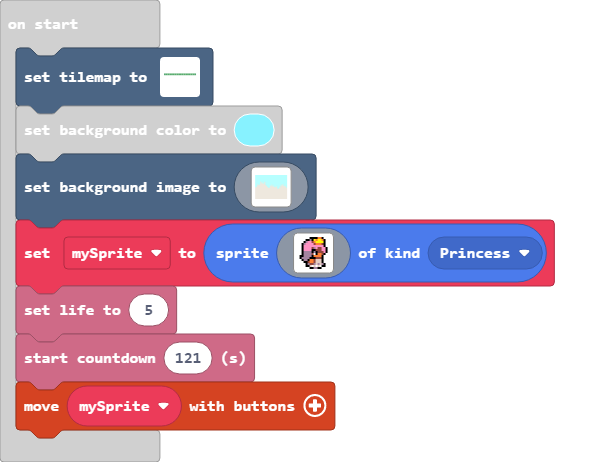
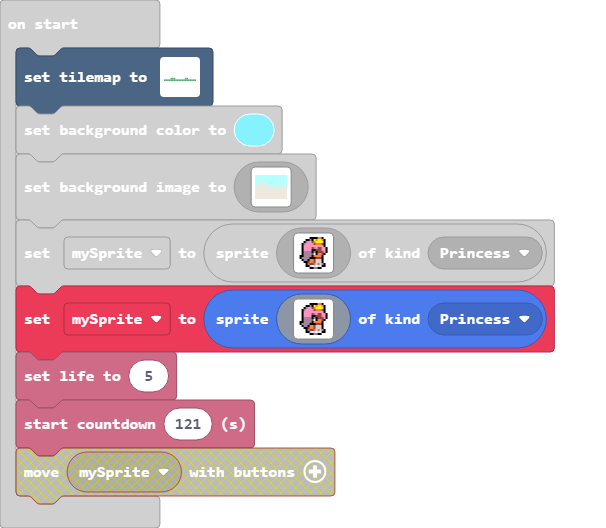
Update pxt.json, main.blocks, main.ts

diff --git a/main.ts b/main.ts
@@ -1,26 +1,13 @@
 namespace SpriteKind {
     export const Princess = SpriteKind.create()
 }
-tiles.setTilemap(tiles.createTilemap(hex`12001200000000000000000000000000000000000000000000000000000000000000000000000000000000000000000000000000000000000000000000000000000000000000000000000000000000000000000000000000000000000000000000000000000000000000000000000000000000000000000000000000000000000000030101010101010101010101010101010102000000000000000000000000000000000000000000000000000000000000000000000000000000000000000000000000000000000000000000000000000000000000000000000000000000000000000000000000000000000000000000000000000000000000000000000000000000000000000000000000000000000000000000000000000000000000000000000000000000000000000000000000000000000000000000000000000000000000000000000000`, img`
-    ..................
-    ..................
-    ..................
-    ..................
-    ..................
-    ..................
-    ..................
-    ..................
-    ..................
-    ..................
-    ..................
-    ..................
-    ..................
-    ..................
-    ..................
-    ..................
-    ..................
-    ..................
-    `, [myTiles.transparency16,sprites.builtin.forestTiles2,sprites.builtin.forestTiles3,sprites.builtin.forestTiles1], TileScale.Sixteen))
+tiles.setTilemap(tiles.createTilemap(hex`1400050000000000000000000000000000000000000000000000000000000000000000000000000000000000000000000000000000000000000000000000000000000000010101000000000000010100000000000201010101010101010101010101010101010103`, img`
+    . . . . . . . . . . . . . . . . . . . . 
+    . . . . . . . . . . . . . . . . . . . . 
+    . . . . . . . . . . . . . . . . . . . . 
+    . . . . 2 2 2 . . . . . . 2 2 . . . . . 
+    2 2 2 2 2 2 2 2 2 2 2 2 2 2 2 2 2 2 2 2 
+    `, [myTiles.transparency16,sprites.builtin.forestTiles2,sprites.builtin.forestTiles1,sprites.builtin.forestTiles3], TileScale.Sixteen))
 scene.setBackgroundColor(9)
 scene.setBackgroundImage(img`
     9999999999999999999999999999999999999999999999999999999999999999999999999999999999999999999999999999999999999999999999999999999999999999999999999999999999999999
@@ -162,6 +149,23 @@ let mySprite = sprites.create(img`
     . . . . f f d 1 d 1 d 1 f f . . 
     . . . . . . f f b b f f . . . . 
     `, SpriteKind.Princess)
+mySprite = sprites.create(img`
+    . . . . . . f f f f 4 4 f . . . 
+    . . . . f f b f 5 4 5 5 4 f . . 
+    . . . f b 3 3 e 4 5 5 5 5 f . . 
+    . . f b 3 3 3 3 e 4 4 4 e f . . 
+    . . f 3 3 3 3 3 3 3 3 3 3 f . . 
+    . . f 3 3 3 3 e b 3 e e 3 3 f . 
+    . . f 3 3 3 3 f f e e e 3 3 f . 
+    . . f b b b b f b f e e e 3 f . 
+    . . f b b b b e 1 f 4 4 e f . . 
+    . f f b b b b f 4 4 4 4 f . . . 
+    . f b b b b f f f e e e f . . . 
+    . . f b b f 4 4 e d d d f . . . 
+    . . . f f e 4 4 e d d d f . . . 
+    . . . . f b e e b d b d b f . . 
+    . . . . f f d 1 d 1 d 1 f f . . 
+    . . . . . . f f b b f f . . . . 
+    `, SpriteKind.Princess)
 info.setLife(5)
 info.startCountdown(121)
-controller.moveSprite(mySprite)
